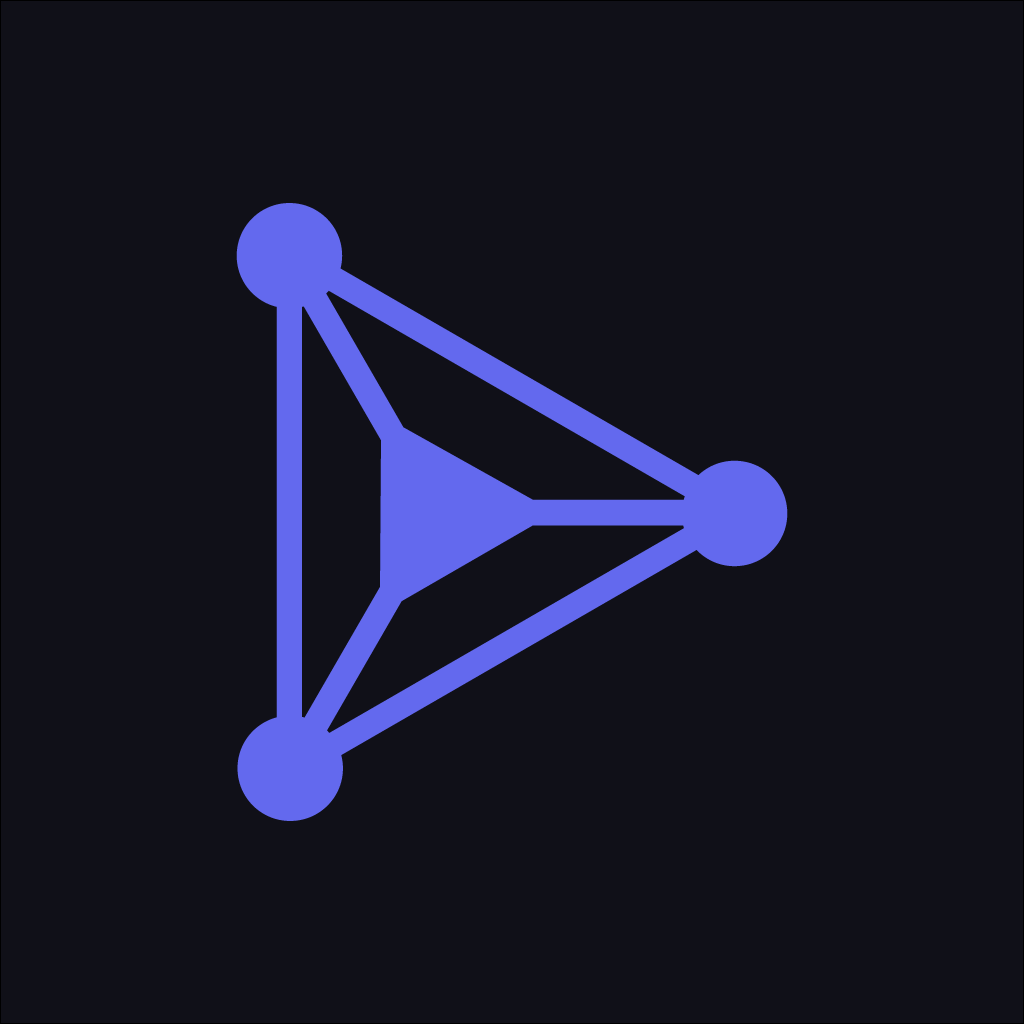
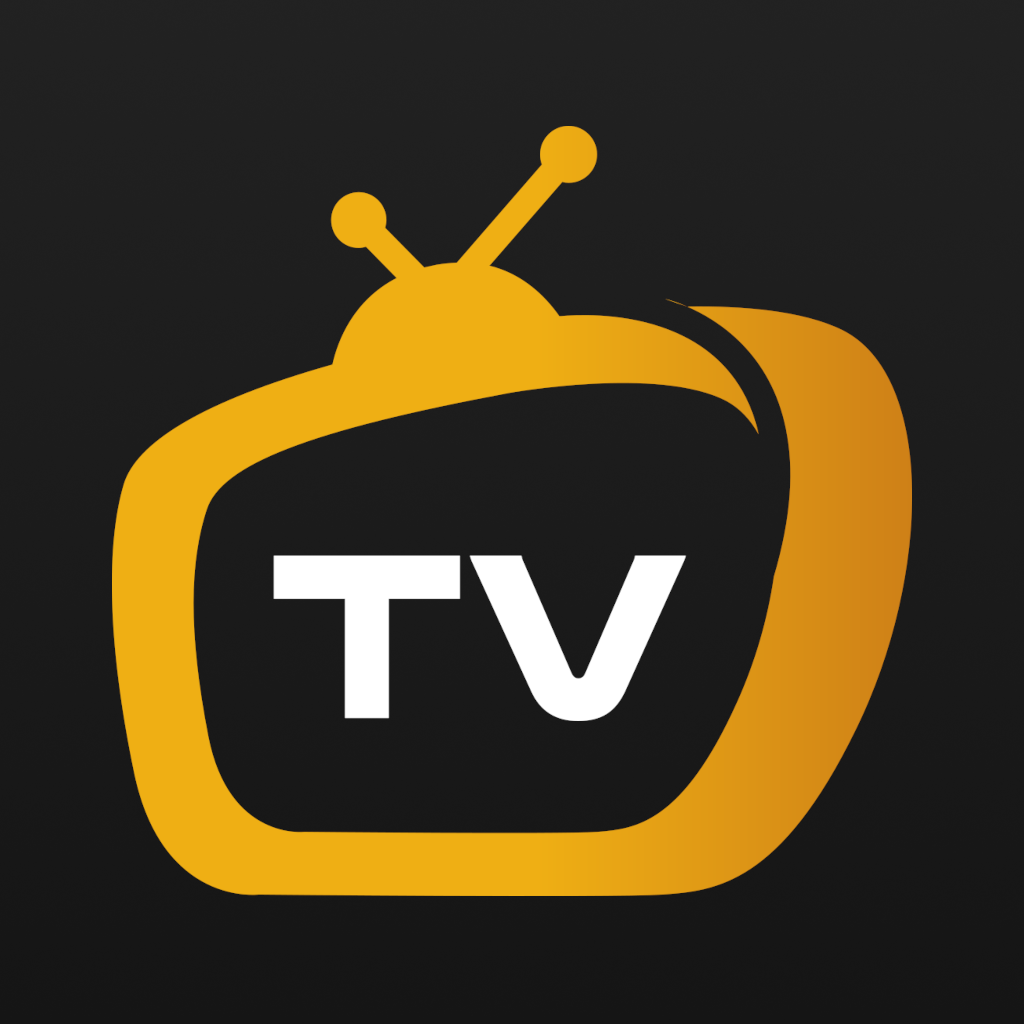
added Readme

Changed region(s): [[0.0938, 0.125, 0.9062, 0.875]]

diff --git a/public/css/main.css b/public/css/main.css
@@ -9499,3 +9499,81 @@ kbd {
     grid-template-columns: repeat(2, minmax(0, 1fr));
   }
 }
+
+/* Laptop landscape/tighter desktop windows: reduce visual density and free horizontal room. */
+@media (hover: hover) and (pointer: fine) and (min-width: 1150px) and (max-width: 1550px) and (max-height: 930px) {
+  :root {
+    --sidebar-width: 236px;
+    --epg-sidebar-width: 184px;
+  }
+
+  .dashboard-content,
+  .admin-dashboard-content {
+    max-width: 100%;
+    padding: 18px 18px 26px;
+  }
+
+  .dashboard-hero {
+    grid-template-columns: 1fr;
+    gap: 16px;
+    padding: 22px;
+    margin-bottom: 24px;
+    border-radius: 20px;
+  }
+
+  .dashboard-title {
+    font-size: clamp(1.6rem, 2.5vw, 2.2rem);
+  }
+
+  .dashboard-subtitle {
+    margin-top: 10px;
+    font-size: 0.94rem;
+  }
+
+  .dashboard-actions {
+    margin-top: 18px;
+    gap: 10px;
+  }
+
+  .hero-action-btn {
+    padding: 8px 12px;
+    font-size: 0.88rem;
+  }
+
+  .dashboard-hero-stats {
+    grid-template-columns: repeat(4, minmax(0, 1fr));
+    gap: 10px;
+  }
+
+  .dashboard-stat-card {
+    min-height: 88px;
+    padding: 12px;
+  }
+
+  .dashboard-stat-value {
+    font-size: 1.55rem;
+  }
+
+  .dashboard-section {
+    margin-bottom: 26px;
+  }
+
+  .section-header {
+    margin-bottom: 12px;
+  }
+
+  .horizontal-scroll {
+    gap: 14px;
+    padding: 10px 6px 12px;
+  }
+
+  .dashboard-card {
+    flex: 0 0 190px;
+    max-width: 190px;
+    border-radius: 15px;
+  }
+
+  .nav-link {
+    padding: 10px 12px;
+  }
+}

diff --git a/public/index.html b/public/index.html
@@ -59,7 +59,7 @@
           <div class="navbar-brand-row">
             <a href="/" class="logo">
               <img
-                src="img/StreamNet_TV_Icon_Logo.svg"
+                src="img/logo-icon.svg"
                 alt="StreamNet TV"
                 class="logo-img"
               />

diff --git a/README.md b/README.md
@@ -20,3 +20,14 @@ StreamNet TV is a modern, web-based IPTV player featuring Live TV, EPG, Movies (
 - **🔊 Smart Audio**: Configurable 5.1→Stereo downmix presets (ITU, Night Mode, Cinematic) with automatic passthrough for compatible sources.
 - **📦 Stream Processing**: Auto-detection of stream codecs with smart remux/transcode decisions.
 - **🐳 Docker Ready**: Easy deployment containerization.
+
+## Screenshots
+
+<div align="center">
+  <img src="public/img/screenshots/dashboard.jpg" width="45%" alt="Dashboard" />
+  <img src="public/img/screenshots/live.jpg" width="45%" alt="Live TV" />
+  <img src="public/img/screenshots/guide.jpg" width="45%" alt="TV Guide" />
+  <img src="public/img/screenshots/serien.jpg" width="45%" alt="Series" />
+  <img src="public/img/screenshots/filme.jpg" width="45%" alt="Movies" />
+  <img src="public/img/screenshots/settings.jpg" width="45%" alt="Settings" />
+</div>